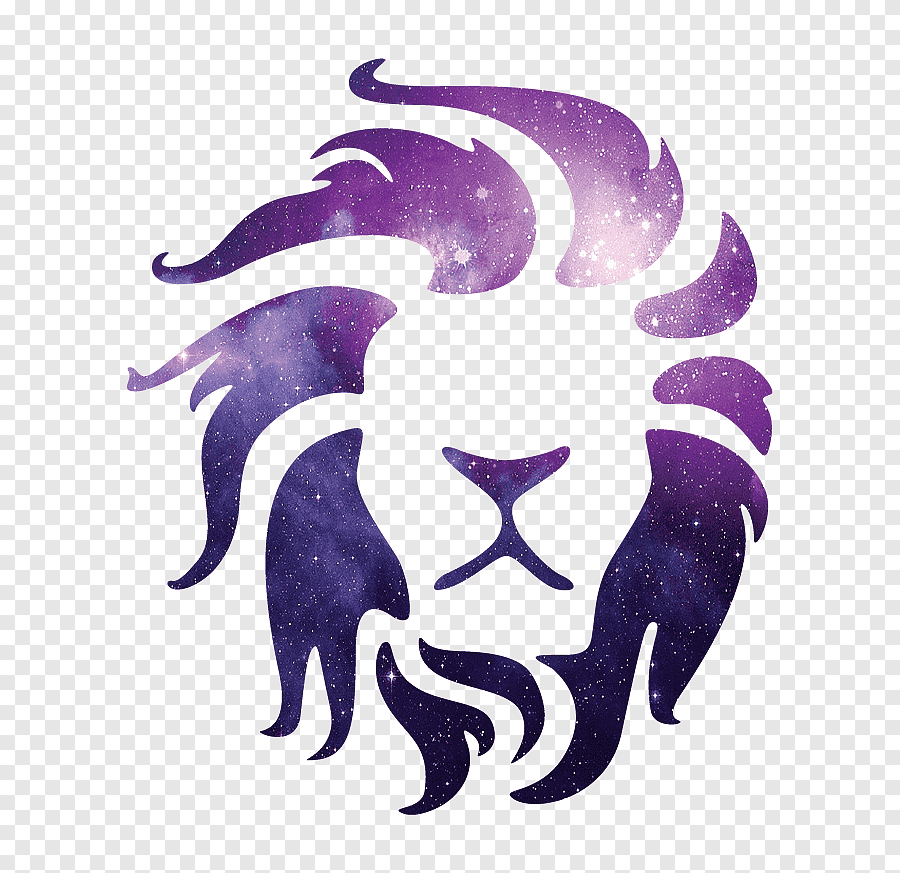
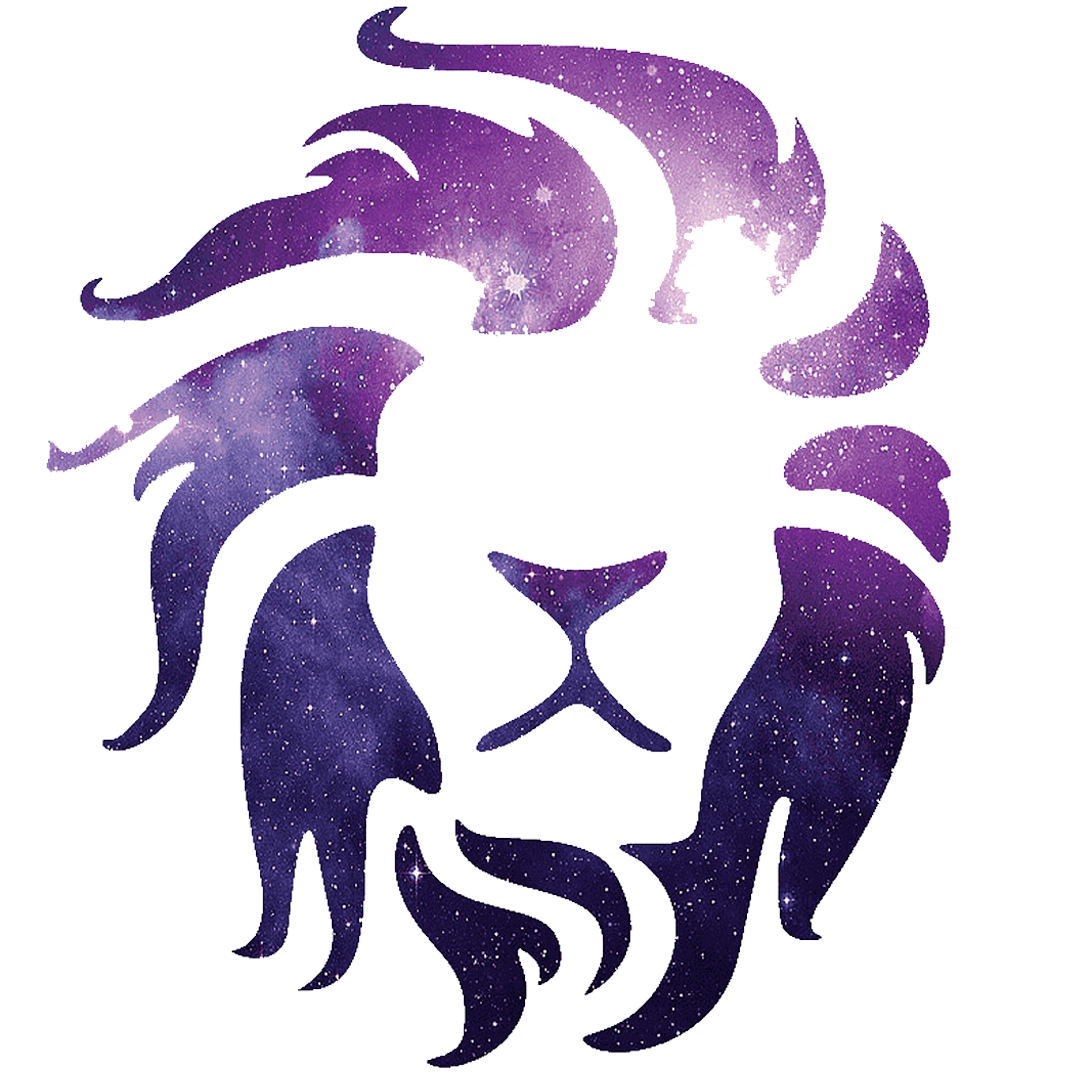
Front page Edit

diff --git a/index.html b/index.html
@@ -60,7 +60,7 @@
                     <div class="col-lg-6">
                         <!-- Masthead device mockup feature-->
                         <div class="masthead-device-mockup">
-                            <img src="assets/img/leo.png" alt="..." style="max-width: 100%; height: 100%" />
+                            <img src="assets/img/zodiacSigns2.png" alt="..." style="max-width: 100%; height: 100%" />
 
                         </div>
                     </div>
